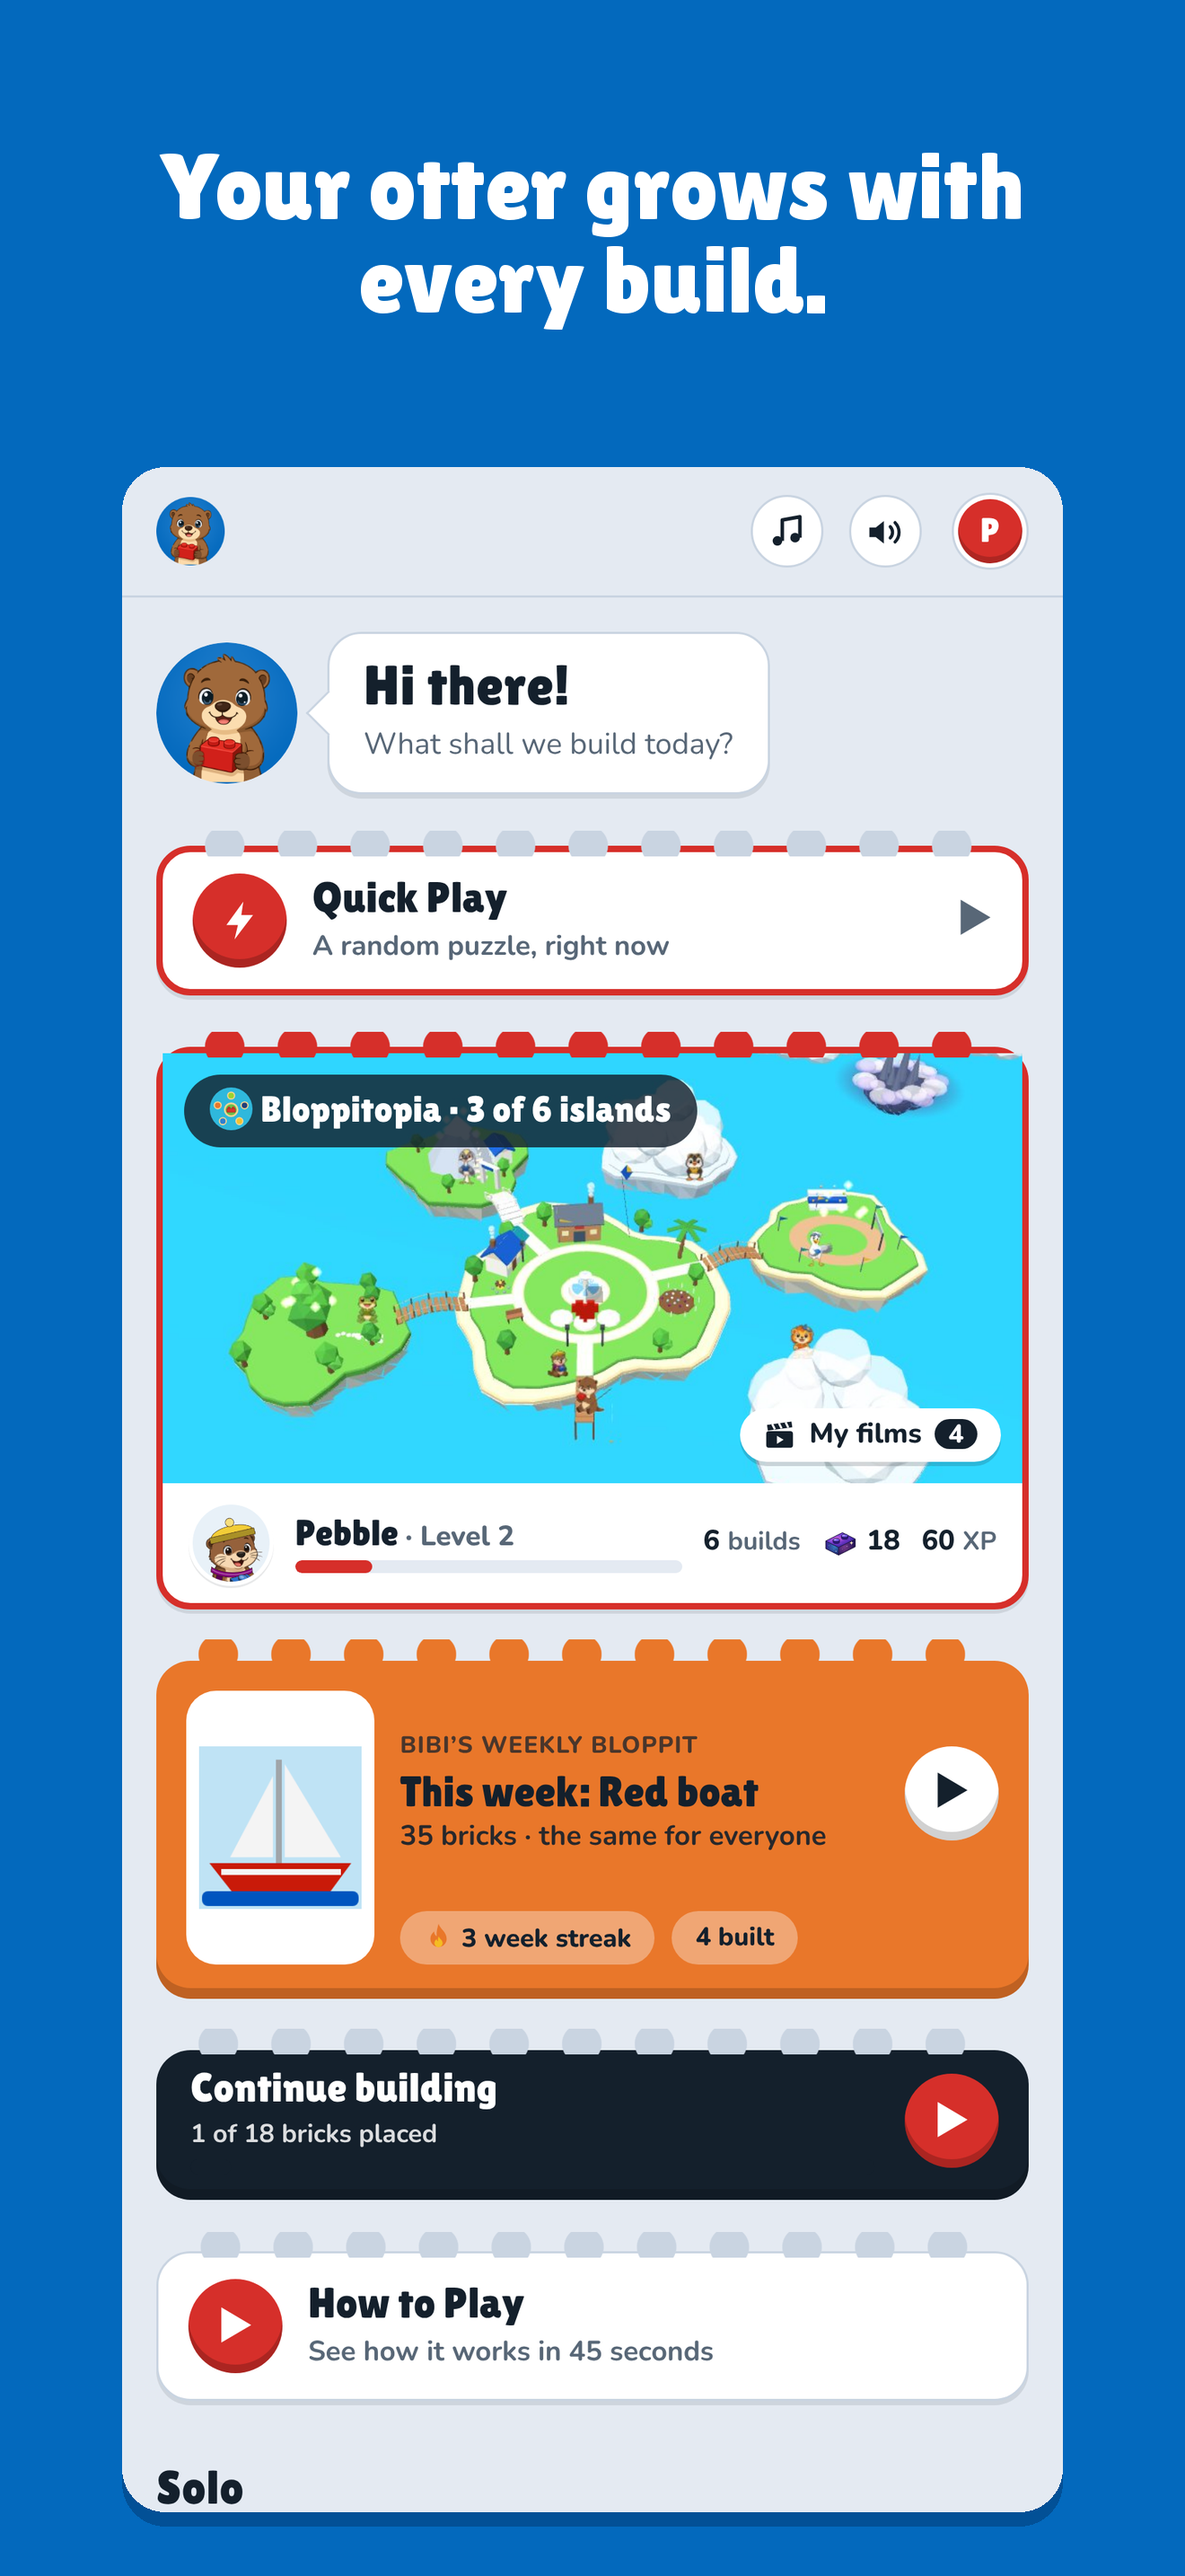
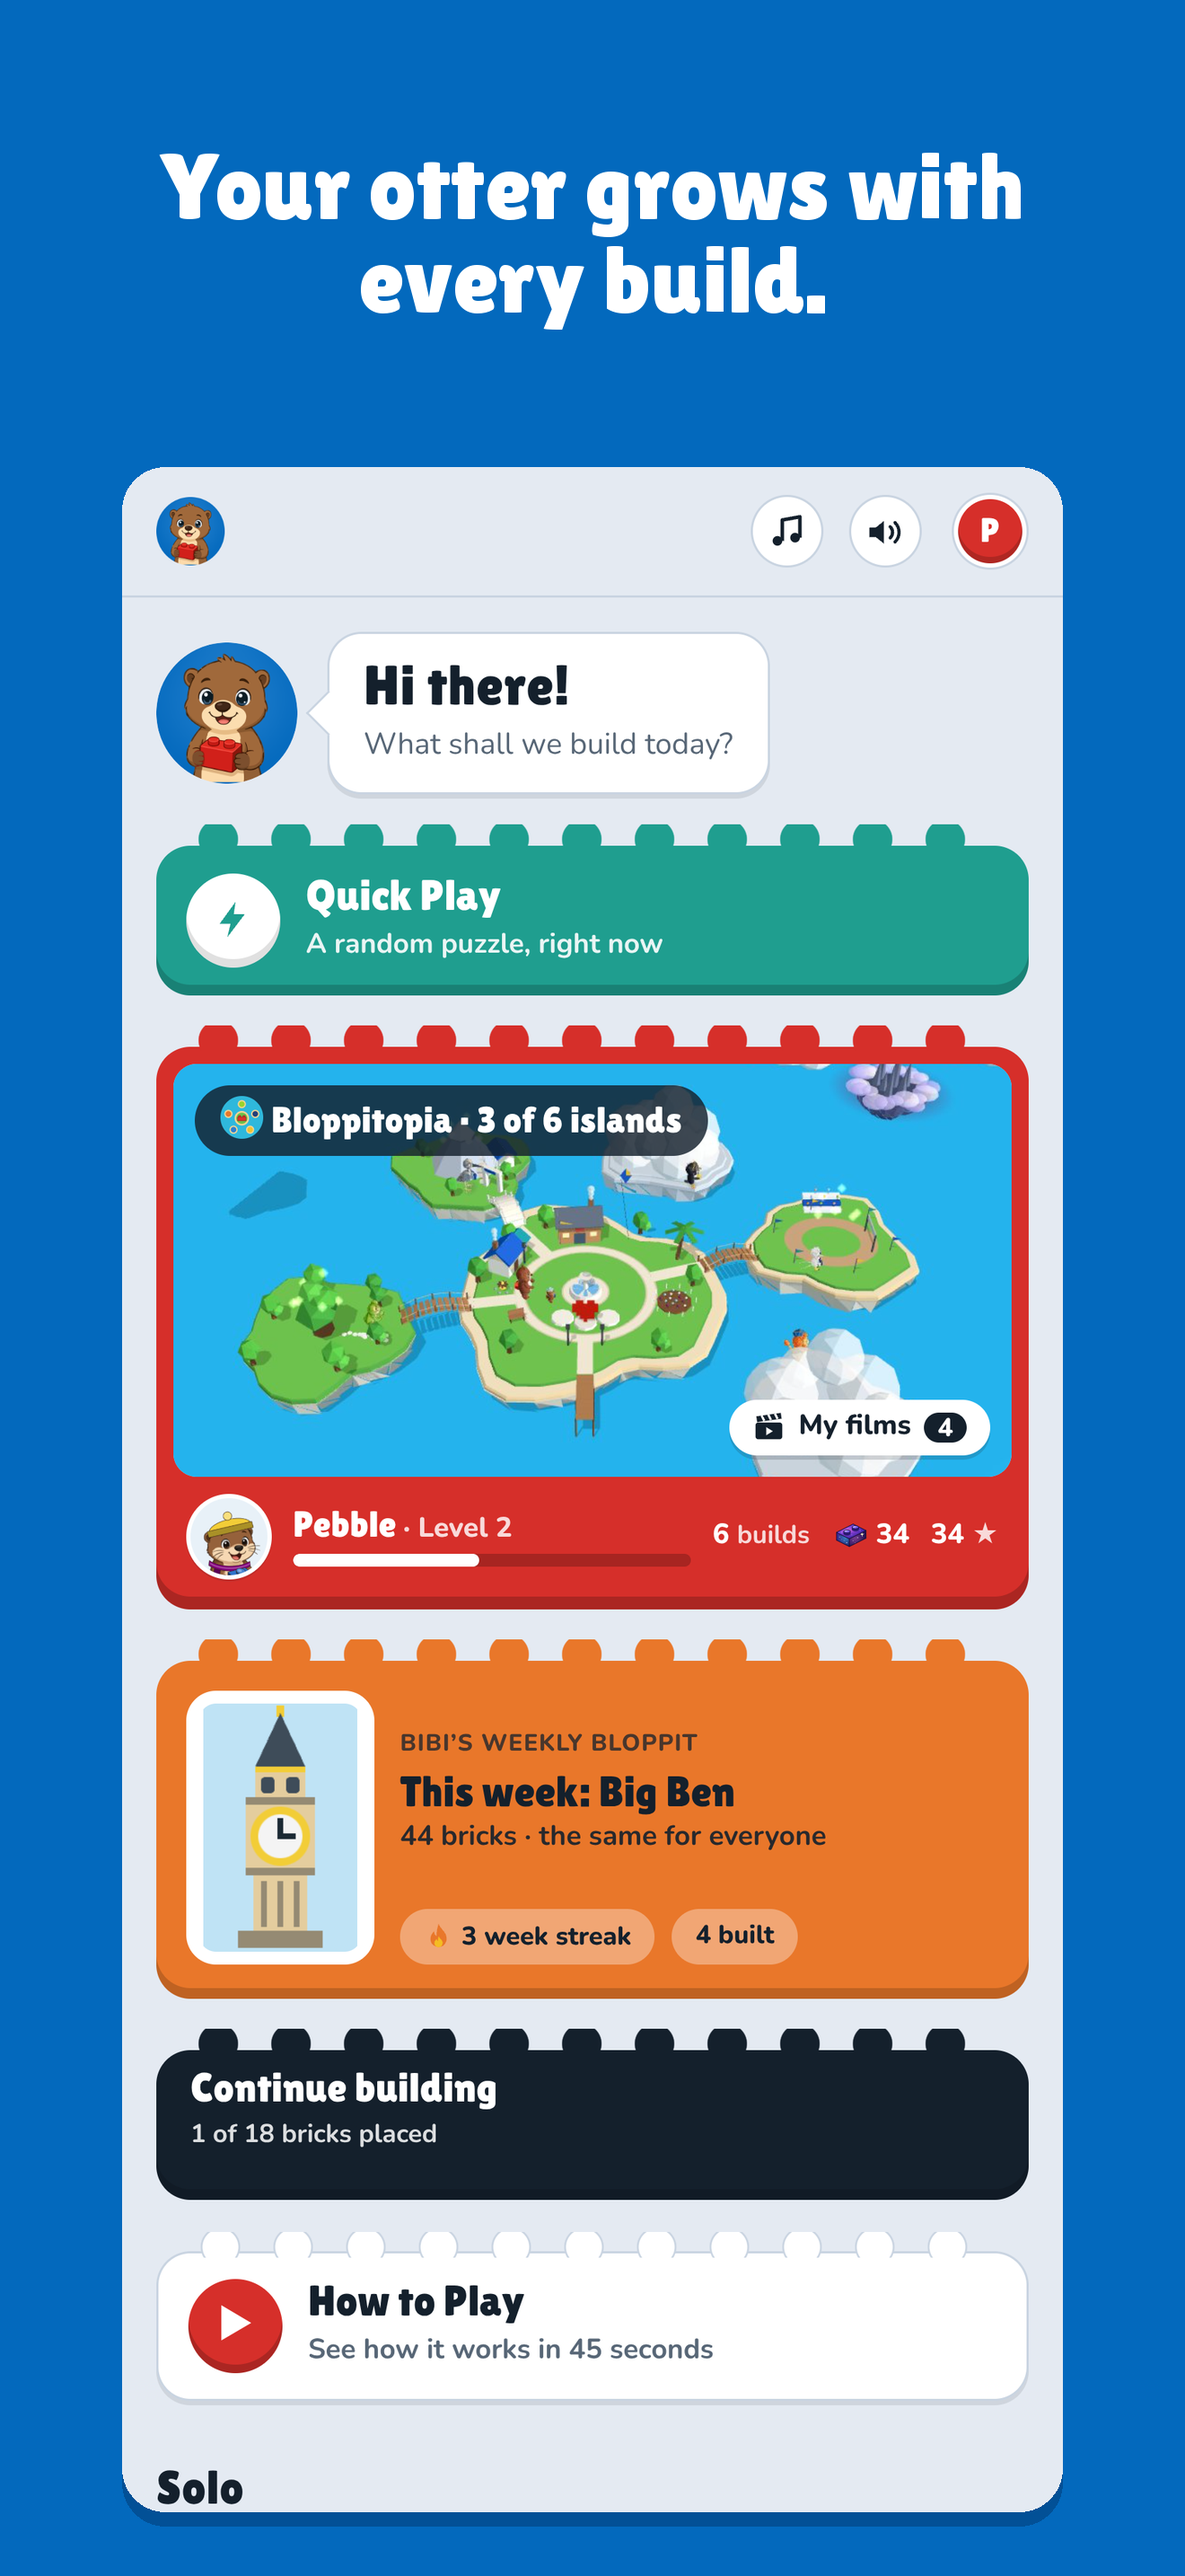
1.1.3: App Store screenshots retaken, checklist updated
The finish shot no longer has the film layer behind the card.

Claude-Session: https://claude.ai/code/session_01A9D3qzRRo67TjmyUg6KLYo

diff --git a/mobile/store/submission-1.1.3.md b/mobile/store/submission-1.1.3.md
@@ -9,7 +9,9 @@
 
 The launch (13, 16 and 21 Nov) runs on 1.1.2 and does not wait for this.
 
-- [ ] Build: the newest **1.1.3** build in TestFlight (the first one after the version bump is pushed).
+- [ ] Build: the newest **1.1.3** build in TestFlight. The first one (from the version bump, 12 Nov) uploaded without
+      problems and should be build 219; a later push to `mobile/` (the new screenshots) makes a newer one with the same
+      game inside. Either is fine: pick the newest.
 - [ ] Play-test on your phone (5 minutes):
   1. Menu, How to Play: the video is smooth and ends with the Bloppit and World of Bricks logo.
   2. Build Anything, Add a photo: it starts Small, shows the brick picture and the number of tiles; Medium and Big
@@ -19,7 +21,8 @@ The launch (13, 16 and 21 Nov) runs on 1.1.2 and does not wait for this.
   5. One Frog Trail level and this week's Weekly, as a general check.
 - [ ] What's New: from `listing.md` (1.1.3).
 - [ ] Review notes: from `listing.md` (the paragraph about 1.1.1 is gone).
-- [ ] Screenshots: the new set in `screenshots/` (no. 3 shows today's build screen; no. 4 is the new stars, caption
-      "Build clean. Keep your stars.").
+- [ ] Screenshots: the new set in `screenshots/`, retaken 12 Nov (no. 3 shows today's build screen; no. 4 is the new
+      stars, caption "Build clean. Keep your stars."). No. 5 shows Big Ben, the Weekly of 9 Nov; that is fine as an
+      example after the week has changed.
 - [ ] Description, promotional text, keywords, age rating, App Privacy: unchanged.
 - [ ] Release automatically after approval; phased release off.
